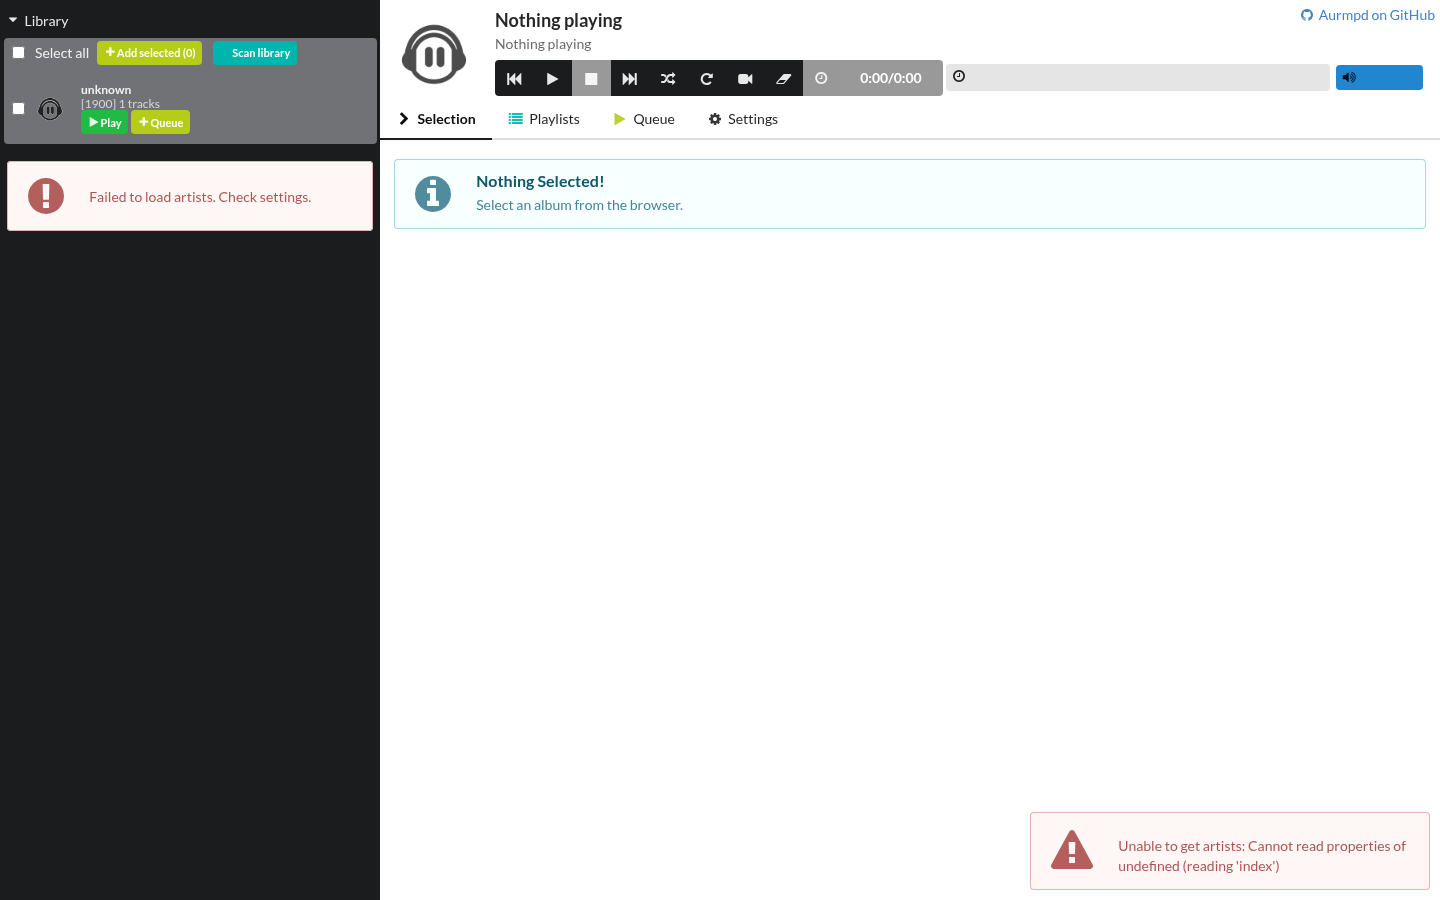
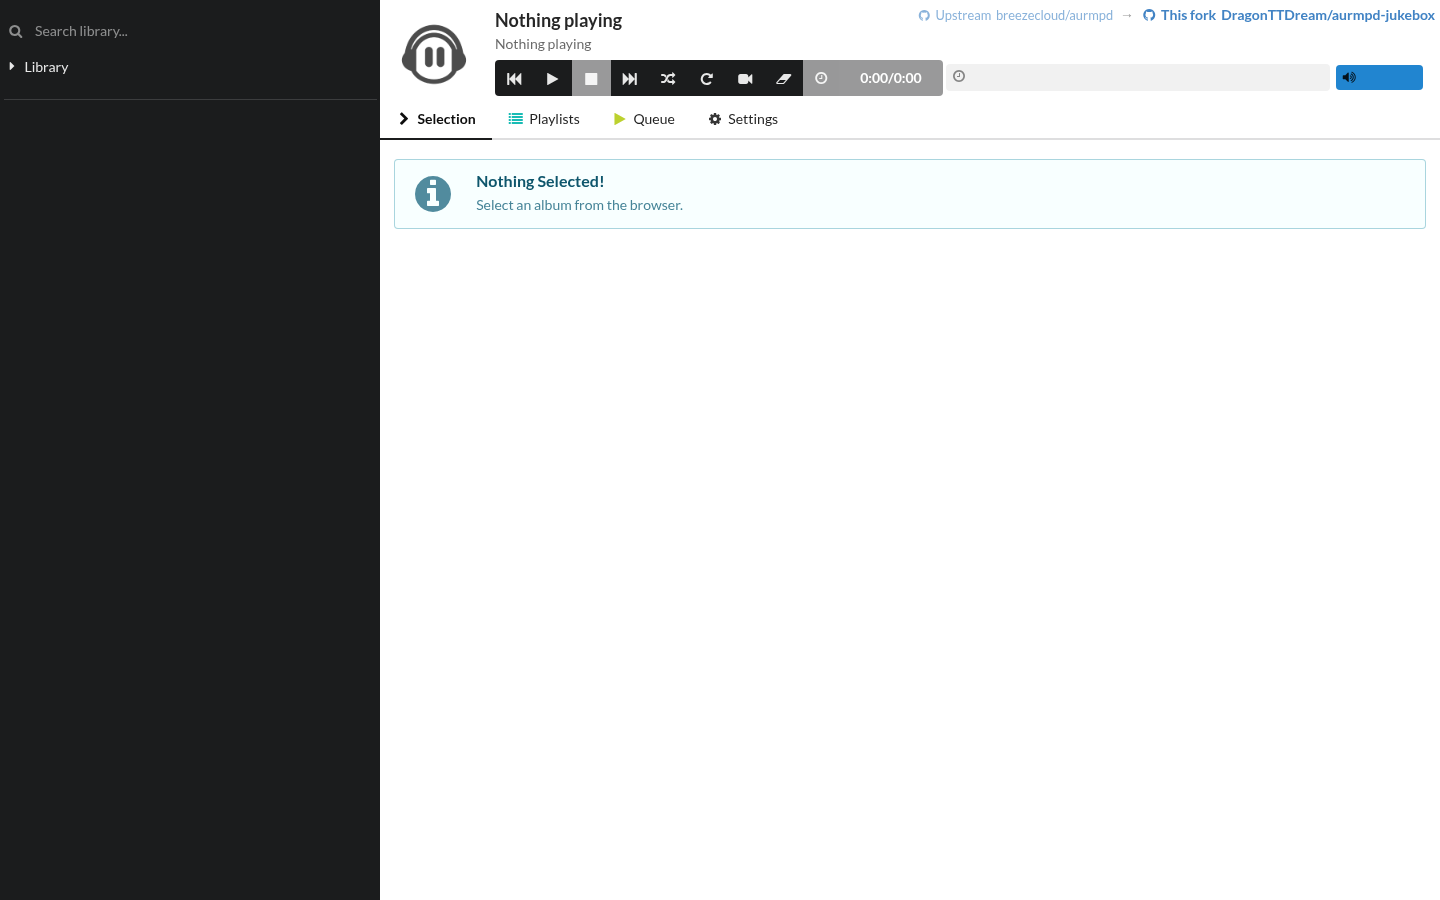
docs(ui): 页头图标改为 GitHub 图标 + README 重写（功能分节、平台差异、修复记录）+ 更新 v1.0.0 界面截图
- 上游/本仓库改用同一 GitHub 图标，靠颜色与字重区分，替换掉不直观的 </> 图标
- README 按「功能 / 平台差异 / 快速开始 / 配置 / 修复记录 / 构建 / 界面 / 来源」重构
- 截图全部按当前版本重拍（不再包含已修复的在线曲库报错界面）
- 去掉文档中的主观表述

diff --git a/aurial/src/js/jsx/app.js b/aurial/src/js/jsx/app.js
@@ -191,7 +191,7 @@ class Links extends Component {
 		return (
 			<div className="links">
 				<a className="repo-link upstream" href={UPSTREAM_URL} title={UPSTREAM_LABEL}>
-					<i className="code branch icon"></i>
+					<i className="github icon"></i>
 					<span>{t('app.upstream')}</span>
 					<span className="repo-name">{UPSTREAM_LABEL}</span>
 				</a>

diff --git a/README.md b/README.md
@@ -1,81 +1,75 @@
 # aurmpd · 本地曲库点歌机版
 
-> **本仓库基于 [breezecloud/aurmpd](https://github.com/breezecloud/aurmpd) 修改**（上游采用 GPL-2.0，本仓库同样以 GPL-2.0 发布）。
-> 上游原版是「浏览器界面 + mpd 播放」；**本分支把它做成一台真正的公共点歌机**：局域网内任何设备打开网页，看到的都是**同一份播放队列、同一套控制**，谁都能暂停、切歌、点歌。
->
-> 上游 README 原文完整保留在 [`docs/UPSTREAM-README.md`](docs/UPSTREAM-README.md)，以明确来源与传承。
+[![License: GPL v2](https://img.shields.io/badge/License-GPL%20v2-blue.svg)](LICENSE)
+[![Release](https://img.shields.io/github/v/release/DragonTTDream/aurmpd-jukebox?label=release)](https://github.com/DragonTTDream/aurmpd-jukebox/releases)
+[![Platform](https://img.shields.io/badge/platform-Windows%20%7C%20Linux-informational)](#下载)
+[![Based on](https://img.shields.io/badge/based%20on-breezecloud%2Faurmpd-lightgrey)](https://github.com/breezecloud/aurmpd)
+
+局域网内多人同时点歌的音乐播放器：**任何设备打开网页，看到的都是同一份播放队列、同一套控制**。
+
+浏览器界面负责浏览与点歌，播放由后台的 [mpd](https://www.musicpd.org/) 负责——
+关掉浏览器音乐不会停，多台设备之间状态实时同步。
+
+> **来源**：本项目是 [breezecloud/aurmpd](https://github.com/breezecloud/aurmpd)（GPL-2.0）的修改版，同样以 **GPL-2.0** 发布。
+> 上游 README 原文保留在 [`docs/UPSTREAM-README.md`](docs/UPSTREAM-README.md)　·　本仓库：<https://github.com/DragonTTDream/aurmpd-jukebox>
 
 ![主界面](docs/screenshots/01-main.png)
 
-## 这是什么
+## 下载
 
-- **后端**：`aurmpd`（C/C++）内嵌 [mongoose](https://mongoose.ws) HTTP/WebSocket 服务，通过 `libmpdclient` 控制 [mpd](https://www.musicpd.org/)；mpd 负责扫描本地音乐库与解码播放。
-- **前端**：改造自 [aurial](https://github.com/shrimpza/aurial) 的网页界面（preact + semantic-ui），通过 REST + WebSocket 与后端通信。
-- **形态**：Windows 下打包 `winaurmpd.exe`（托盘启动器）+ `mpd.exe`，解压即用；Linux 下只需本机装好 mpd。
-
-## 相比上游的主要改动
-
-### 修复（上游版本实际会踩到的问题）
-
-| 问题 | 根因 |
-| --- | --- |
-| 页面**白屏**（本地/局域网都打不开） | 前端在 WebSocket 连接建立前就 `send()`，抛 `InvalidStateError` 中断整页渲染；改为**带发送队列**的封装 |
-| **曲库读不出来**（换了配置也没用） | 压缩包缺少 `.mpd` 空目录 → mpd 打不开 `.mpd/log` 直接启动失败；已在包内补齐并由启动器兜底创建 |
-| 改音乐目录**不生效** | mpd 不会自动重扫旧数据库；新增**空库自动扫描**与曲库面板 `Scan library` 手动重扫 |
-| 托盘退出后**进程残留**、目录删不掉 | 退出标志非 `volatile`（`-O3` 下多线程读不到）+ 加锁区提前 `return` 未解锁导致退出清理永久阻塞；已修，并引入 Job 对象保证子进程一并结束 |
-| 重开页面**失去播放记录、无法控制** | 队列的"真相"原本只在应用内存里；现改为 **mpd 是队列的唯一真相**，启动/重连时自动镜像同步 |
-| 错误方法请求接口**打崩进程** | 方法不匹配时不回包，随后日志越界读取响应缓冲；现返回 **405**，畸形 JSON 返回 **400** |
-| 多人同时点歌**断连/丢命令** | mpd 连接被多线程无共享锁；已加递归互斥锁 |
-| 界面**搜索框一直转圈** | 搜索走的是 Subsonic 接口且失败不结束；现改为过滤**本地曲库**，并给所有请求加超时与错误透传 |
-| 曲库读取时**崩溃** | 音频标签为空/非数字时 `std::stoi` 抛异常；已改为安全解析 |
-| 艺术家区显示「**加载失败，请检查设置**」 | 程序默认填了演示 Subsonic 服务器，导致"未配置"判断永不成立；现未配置时**整块不渲染** |
-
-### 新增功能
-
-- **共享队列语义**：多终端同一队列、同一控制，重启不丢（本项目的核心目标）
-- **循环 / 单曲 / 消费**播放模式按钮（多端状态同步）
-- **本地歌单**：保存当前队列 / 列出 / 查看 / 加载 / 删除（走 mpd 原生歌单）
-- **曲库关键词检索**：直接列出匹配的**曲目行**（带播放 / 入队），并可一键加入队列
-- **批量点歌**：勾选 + 全选 + 批量加入队列
-- **专辑行内展开**：点专辑标题就地展开曲目，无需跳页
-- **进度条点击/拖动跳转**、**音量条支持触摸**、**手机端响应式布局**
-- **中英双语**界面（设置页切换，即时生效）
-- **开机自启**：托盘右键 + 设置页开关（写入当前用户注册表，无需管理员权限）
-
-### 打包与工程
-
-- Windows 交叉编译（mingw-w64）产物：`aurmpd.exe` 静态链接，仅依赖 `libmpdclient-2.dll`
-- 附带 `mpd.conf.tmp` 模板、`.mpd/` 数据目录、诊断脚本
-- Windows 启动器：固定工作目录、子进程用绝对路径拉起、`music_directory` 自动把 `\` 规范化为 `/`
-
-## 界面一览
-
-| 曲库（含检索、批量点歌、扫描） | 设置（中英双语、开机自启） |
-| --- | --- |
-| ![曲库](docs/screenshots/02-library.png) | ![设置](docs/screenshots/03-settings-zh.png) |
-
-![队列](docs/screenshots/04-queue.png)
-
-> 每个页面/分栏的详细说明、HTTP 与 WebSocket 接口清单、排错手册，见 **[docs/FEATURES.md](docs/FEATURES.md)**。
-
-## 两个版本的区别（Windows / Linux）
-
-> 前端功能**完全相同**（中英双语、本地歌单、曲库检索、批量点歌、进度条跳转、手机端适配…），
-> 差异都在「运行方式」与「系统集成」上：
-
-| 能力 | **Windows 版**（`aurmpd-1.0.0-win64.zip`） | **Linux 版**（`aurmpd-1.0.0-linux-x86_64.tar.gz`） |
+| 平台 | 文件 | 说明 |
 | --- | --- | --- |
-| 一键启动（内含 mpd） | ✅ 自带 `mpd.exe`（0.23.9）与 `libmpdclient-2.dll` | ❌ 需自行安装并启动 mpd（`apt install mpd` 等） |
-| 启动方式 | 双击 `winaurmpd.exe`：后台运行 + 系统托盘图标，自动拉起 mpd 与 aurmpd | `./aurmpd`（前台运行，推荐用 systemd 托管） |
-| 系统托盘图标 | ✅ 可右键退出 / 开机自启 | ❌ 无 |
-| **开机自启** | ✅ **托盘右键**「开机自启」+ **设置页开关**（写当前用户注册表 `HKCU\...\Run`，**无需管理员权限**） | ❌ **不支持**（设置页会自动隐藏这一项）；请用 `systemctl enable` 托管服务 |
-| 首次配置 | 首次运行自动生成 `mpd.conf`；`music_directory` 的 `\` 会自动转成 `/` | 自行编写 `mpd.conf`（路径用**正斜杠**） |
-| 退出方式 | 托盘右键 → Exit（会连带结束 mpd 与 aurmpd） | `Ctrl+C` / `systemctl stop` |
-| 目录依赖 | 可任意解压目录（启动器会固定工作目录） | 建议从解压目录启动，或显式指定 `htdocs` 根目录 |
-| 端口与播放 | `0.0.0.0:8600`，多终端共享同一队列 | 同上，完全一致 |
-| 页面无鉴权 | 是（公共点歌机取舍，请只在可信局域网） | 同上 |
+| **Windows x64** | `aurmpd-1.0.0-win64.zip` | **推荐**：解压即用，自带 mpd 与托盘启动器 |
+| **Linux x86_64** | `aurmpd-1.0.0-linux-x86_64.tar.gz` | 需自行安装并运行 mpd |
 
-**Linux 开机自启的正确做法**（系统级服务，比 Windows 注册表方式更规范）：
+发布页：<https://github.com/DragonTTDream/aurmpd-jukebox/releases/latest>
+
+## 功能
+
+### 播放与队列
+
+- [x] 同一个 mpd 队列，**多终端共享**：谁都能暂停、切歌、点歌，状态实时同步
+- [x] 队列不随浏览器关闭而丢失；aurmpd 重启后自动从 mpd 恢复
+- [x] **循环 / 单曲 / 消费** 播放模式（多端状态同步）
+- [x] **进度条点击或拖动跳转**（拖动只做本地预览，松手才提交一次）
+- [x] 音量 / 随机 / 上一首 / 下一首；音量条支持**触摸**
+
+### 曲库与点歌
+
+- [x] 本地曲库按专辑浏览，**点专辑标题就地展开曲目**（无需跳页）
+- [x] **关键词检索**：直接列出匹配的**曲目行**，可一键播放 / 加入队列
+- [x] **批量点歌**：勾选 + 全选 + 批量加入队列
+- [x] 专辑行内一键「播放全部 / 加入队列」
+- [x] **曲库扫描**：新增歌曲后手动重扫（空库时自动扫描一次）
+
+### 歌单与设置
+
+- [x] **本地歌单**：把当前队列存成歌单 / 列出 / 查看 / 加载 / 删除（mpd 原生歌单）
+- [x] 清空队列、从队列移除单曲
+- [x] **中英双语**界面（设置页切换，即时生效）
+- [x] Windows：**开机自启**（托盘右键 + 设置页开关，写入当前用户注册表，无需管理员权限）
+
+### 其他
+
+- [x] 手机端响应式布局（窄屏上下堆叠、表格内部横滚、触控目标 ≥40px）
+- [x] 页面无登录鉴权，面向可信局域网（客厅、店铺等）的公共点歌场景
+
+## 两个版本的区别
+
+前端功能**完全相同**，差异在运行方式与系统集成：
+
+| 能力 | Windows 版 | Linux 版 |
+| --- | --- | --- |
+| 内置 mpd（一键启动） | ✅ 自带 `mpd.exe` 0.23.9 + `libmpdclient-2.dll` | ❌ 需自行安装并启动 mpd |
+| 启动方式 | 双击 `winaurmpd.exe`：后台运行 + 托盘图标，自动拉起 mpd 与 aurmpd | `./aurmpd`（前台运行，建议 systemd 托管） |
+| 系统托盘图标 | ✅ | ❌ |
+| 开机自启 | ✅ 托盘右键 + 设置页开关（写 `HKCU\...\Run`，无需管理员权限） | ❌ 设置页自动隐藏该项；请用 `systemctl enable` |
+| 首次配置 | 首次运行自动生成 `mpd.conf`；`music_directory` 的反斜杠自动转正斜杠 | 自行编写 `mpd.conf`（路径用正斜杠；包内附 `mpd.conf.sample`） |
+| 退出方式 | 托盘右键 → Exit（连带结束 mpd 与 aurmpd） | `Ctrl+C` / `systemctl stop` |
+| 网络与播放 | `0.0.0.0:8600`，多终端共享同一队列 | 相同 |
+
+<details>
+<summary><strong>Linux：用 systemd 做开机自启</strong></summary>
 
 ```ini
 # /etc/systemd/system/aurmpd.service
@@ -97,40 +91,88 @@ WantedBy=multi-user.target
 ```bash
 sudo systemctl daemon-reload && sudo systemctl enable --now aurmpd
 ```
+</details>
 
 ## 快速开始
 
-### Windows（推荐，开箱即用）
+### Windows
 
-1. 解压发布包到**无中文、无空格**的目录；
-2. 双击 `winaurmpd.exe`：托盘出现图标，自动拉起 mpd 与 aurmpd；
-3. 浏览器打开 `http://127.0.0.1:8600`（局域网内用 `http://<本机IP>:8600`），首次请 **Ctrl+F5 强刷**；
-4. 在 `mpd.conf` 里把 `music_directory` 指向你的音乐目录，然后用曲库面板的 **Scan library** 扫描（或重启程序）。
+1. 解压到**无中文、无空格**的目录（不要覆盖旧目录）；
+2. 双击 `winaurmpd.exe` → 托盘出现图标，自动拉起 mpd 与 aurmpd；
+3. 浏览器打开 `http://127.0.0.1:8600`（局域网用 `http://<本机IP>:8600`），首次按 **Ctrl+F5 强刷**；
+4. 编辑 `mpd.conf` 的 `music_directory` 指向音乐目录，再用曲库面板的 **Scan library** 扫描。
 
 ### Linux
 
-1. 安装并启动 mpd（`libmpdclient` 开发库需可用）；
-2. 构建：`cmake -B build -DCMAKE_BUILD_TYPE=Release && cmake --build build -j$(nproc)`；
-3. 前端：`cd aurial && NODE_OPTIONS=--openssl-legacy-provider npm run dist`；
-4. 运行：`cd build && ./aurmpd`（默认监听 `0.0.0.0:8600`，请只在可信网络暴露）。
+```bash
+# 1) 安装并启动 mpd（以 Debian/Ubuntu 为例）
+sudo apt install mpd libmpdclient2
+# 2) 解压发布包后运行
+./aurmpd          # 默认监听 0.0.0.0:8600
+```
 
 ## 配置要点
 
 | 项 | 说明 |
 | --- | --- |
-| `music_directory` | 用**绝对路径 + 正斜杠**，如 `music_directory "D:/Music"`（启动器也会自动把 `\` 转成 `/`） |
-| `.mpd/` 目录 | mpd 的数据库/日志/歌单都放这里，**不要删除**（缺失会导致 mpd 启动失败、曲库全空） |
-| 改目录后没生效 | 点曲库面板的 **Scan library**；空曲库时程序也会自动扫描一次 |
-| 安全 | 页面**无登录鉴权**——这是"公共点歌机"的有意取舍，请只在可信局域网内使用 |
+| `music_directory` | **绝对路径 + 正斜杠**，如 `music_directory "D:/Music"`（Windows 启动器也会自动把 `\` 转 `/`） |
+| `.mpd/` 目录（Windows 包） | mpd 的数据库 / 日志 / 歌单目录，**不要删除**（缺失会导致 mpd 启动失败、曲库为空） |
+| 改目录后曲库没更新 | 点曲库面板 **Scan library**；空曲库时程序会自动扫描一次 |
+| 页面无鉴权 | 仅建议在**可信局域网**内使用；如需公网访问请自行加反向代理与认证 |
+
+## 修复记录
+
+| 现象 | 原因 | 处理 |
+| --- | --- | --- |
+| 页面白屏，本地/局域网都打不开 | 前端在 WebSocket 连接建立前就 `send()`，抛 `InvalidStateError` 中断整页渲染 | 改为带发送队列的封装：连接前排队、断线不抛异常 |
+| 曲库为空 / mpd 起不来 | 发布包缺少 `.mpd` 目录，mpd 无法创建日志与数据库文件 | 包内补齐该目录；启动器额外兜底创建 |
+| 改了音乐目录不生效 | mpd 只在数据库文件缺失时才自动扫描 | 新增空库自动扫描 + 曲库面板 `Scan library` 手动重扫 |
+| 托盘退出后有残留进程，目录删不掉 | 退出标志未声明 `volatile`（优化后多线程读不到）；加锁区内的提前 `return` 未释放互斥锁，退出清理永久阻塞；启动器发出关闭指令后不等待结果 | 修正标志类型与解锁路径；启动器改为「等待 → 超时强杀 → 再等待」，并引入 Job 对象保证子进程一并结束 |
+| 重开页面后失去播放记录、无法控制 | 队列只保存在应用内存中，重启后为空，与 mpd 实际队列不一致 | 内部队列改为 mpd 队列的镜像，连接/重连与队列变化时自动同步；`queue_sid` 直接采用 mpd 歌曲 id |
+| 错误方法请求接口导致进程崩溃 | 方法不匹配时不返回响应，随后日志读取空的响应缓冲造成越界 | 已知路由方法不匹配返回 **405**；畸形 JSON 返回 **400** |
+| 多人同时点歌时断连 / 丢命令 | mpd 连接被多个线程无锁共享 | 增加递归互斥锁，写路径与轮询串行化 |
+| 搜索框一直转圈 | 搜索请求走在线曲库接口，失败时不结束也不报错 | 改为过滤本地曲库，并为所有请求加超时与错误透传 |
+| 扫描含异常标签的曲库时崩溃 | 标签为空或非数字时 `std::stoi` 抛异常 | 改为安全解析（空值/非法值取默认值） |
+| 艺术家区显示「加载失败，请检查设置」 | 默认配置指向一个演示用的在线服务器，导致「未配置」判断不成立 | 移除该默认值；未配置时整个区域不渲染，配置了但连不上时折叠显示一行提示 |
+
+## 从源码构建
+
+<details>
+<summary><strong>后端（C/C++）</strong></summary>
+
+```bash
+cmake -B build -DCMAKE_BUILD_TYPE=Release
+cmake --build build -j$(nproc)          # 产物：build/aurmpd
+```
+
+Windows 交叉编译需 mingw-w64 与 Windows 版 libmpdclient，产物为 `aurmpd.exe` 与 `winaurmpd.exe`。
+</details>
+
+<details>
+<summary><strong>前端（preact + semantic-ui）</strong></summary>
+
+```bash
+cd aurial
+NODE_OPTIONS=--openssl-legacy-provider npm run dist   # 产物直出 ../build/htdocs
+```
+
+> 该前端是 2017 年前后的技术栈（webpack 2 / babel 6），较新的 Node 需要 `--openssl-legacy-provider`。
+</details>
+
+## 界面
+
+| 曲库（检索 / 批量点歌 / 扫描） | 设置（双语 / 开机自启 / 关于） |
+| --- | --- |
+| ![曲库](docs/screenshots/02-library.png) | ![设置](docs/screenshots/03-settings-zh.png) |
+
+| 队列 | 手机端 |
+| --- | --- |
+| ![队列](docs/screenshots/04-queue.png) | ![手机](docs/screenshots/06-mobile.png) |
+
+> 每个页面/分栏的用途、HTTP 与 WebSocket 接口清单、排错手册：**[docs/FEATURES.md](docs/FEATURES.md)**
 
 ## 来源与许可
 
-- **上游项目**：[breezecloud/aurmpd](https://github.com/breezecloud/aurmpd) ，License: **GPL-2.0**
-- **本仓库**：在上游 `v0.2.0` 基础上修改（详见上文「相比上游的主要改动」），同样以 **GPL-2.0** 发布，并保留上游全部版权声明与 `LICENSE`。
-- 上游 README 原文： [`docs/UPSTREAM-README.md`](docs/UPSTREAM-README.md)
-
-### 致谢
-
-- [breezecloud/aurmpd](https://github.com/breezecloud/aurmpd) —— 本项目的直接来源
-- [aurial](https://github.com/shrimpza/aurial) —— 前端界面原型
-- [mpd](https://www.musicpd.org/) / [libmpdclient](https://www.musicpd.org/libs/libmpdclient/) / [mongoose](https://mongoose.ws) —— 播放、控制与网络层
+- **上游**：[breezecloud/aurmpd](https://github.com/breezecloud/aurmpd)（GPL-2.0）—— 本项目的直接来源
+- **本仓库**：[DragonTTDream/aurmpd-jukebox](https://github.com/DragonTTDream/aurmpd-jukebox)（同样 **GPL-2.0**，保留上游版权声明与 `LICENSE`）
+- **致谢**：[aurial](https://github.com/shrimpza/aurial)（前端原型）、[mpd](https://www.musicpd.org/) / [libmpdclient](https://www.musicpd.org/libs/libmpdclient/)（播放与控制）、[mongoose](https://mongoose.ws)（网络层）
